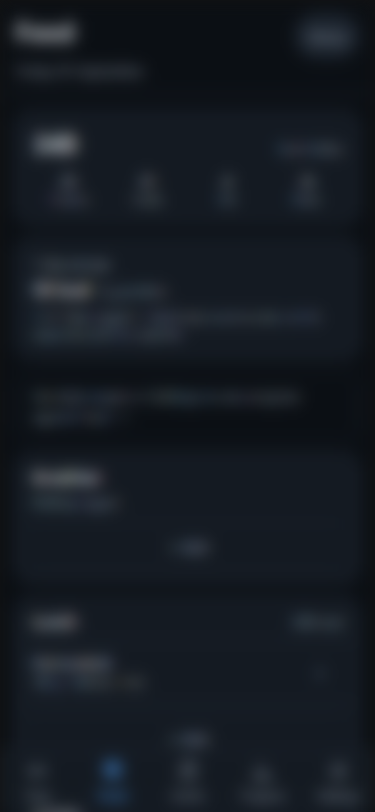
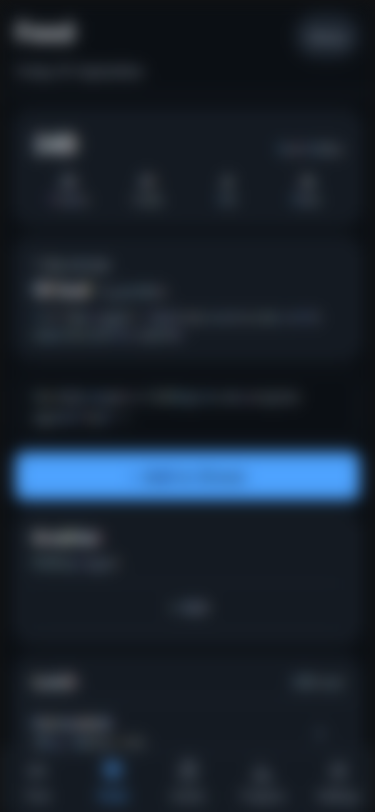
Put the food screen's one action above the fold
The filled Add followed the clock to whichever meal slot was current, which
meant that for dinner and snack - roughly half the day - it sat below the
fold and nothing prominent was in view. Flagged as a design question rather
than fixed unilaterally; the owner answered it.

One filled "+ Add to <meal>" now sits after the 7-day average and before the
meal sections. Only its LABEL follows the clock; the button does not move
down the page. Bottom measures 500px, which clears a 390x844 phone and a
375x667 one, so it is above the fold at every hour and on the shortest phone
worth supporting.

Placed below the average rather than above it because the brief gives the
daily total and the 7-day average equal billing and sits them together; a
button wedged between them would break the pair. That is as high as it goes
without doing so.

Tapping it opens that meal's form and scrolls to it, armed on that tap only
so a meal's own Add - already in view - does not yank the page. auto, not
smooth: nothing else here animates, and smooth does not run on a hidden page,
which makes it untestable. The button hides while a form is open, so there
are never two add surfaces. The four per-slot buttons went back to plain
borders, leaving exactly one filled action.

This edits two written criteria. Gate 3a now says "view" means the first
viewport at 390x844, and 3b adds "reachable without scrolling". Both are
STRICTER than before, in the direction the owner specified, so I did not ask
[…]

diff --git a/src/routes/Food.tsx b/src/routes/Food.tsx
@@ -1,4 +1,4 @@
-import { useState } from 'react'
+import { useLayoutEffect, useRef, useState } from 'react'
 import { useLiveQuery } from 'dexie-react-hooks'
 import { Link } from 'react-router-dom'
 import { Screen } from '../components/Screen'
@@ -58,6 +58,22 @@ export function Food() {
 
   const kcalTarget = profile?.kcal_target ?? null
   const proteinTarget = profile?.protein_g_target ?? null
+
+  /**
+   * Opening the form from the button at the top means the form itself is
+   * usually below the fold, and a button that opens something you cannot see
+   * is worse than no button. Armed on that tap only, so tapping a meal's own
+   * Add - already in view - does not yank the page.
+   *
+   * `auto`, not `smooth`: nothing else in this app animates, and a smooth
+   * scroll does not run at all on a hidden page, which makes it untestable.
+   */
+  const armed = useRef(false)
+  useLayoutEffect(() => {
+    if (!armed.current || !addingTo) return
+    armed.current = false
+    document.getElementById(`meal-${addingTo}`)?.scrollIntoView({ behavior: 'auto', block: 'start' })
+  }, [addingTo])
 
   return (
     <Screen
@@ -132,12 +148,40 @@ export function Food() {
           </Link>
         )}
 
+        {/* The screen's one filled action, and the only one.
+
+            It used to be the current meal's own Add button, which followed the
+            clock - and so fell below the fold for dinner and snack, roughly
+            half the day, leaving nothing prominent in view. Here it is above
+            the fold whatever the time.
+
+            Placed after the 7-day average rather than above it: the brief
+            gives the daily total and the average equal billing and sits them
+            together, so a button wedged between them would break the pair.
+            This is as high as it goes without doing that. */}
+        {addingTo === null && (
+          <button
+            onClick={() => {
+              armed.current = true
+              setAddingTo(nowSlot)
+            }}
+            className="min-h-12 w-full rounded-lg bg-accent font-semibold text-accent-text"
+          >
+            {/* capitalize on the button would title-case the "to" as well. */}
+            + Add to <span className="capitalize">{nowSlot}</span>
+          </button>
+        )}
+
         {/* Meals */}
         {MEAL_SLOTS.map((slot) => {
           const forSlot = (entries ?? []).filter((e) => e.meal_slot === slot)
           const slotTotal = totalLogged(forSlot)
           return (
-            <section key={slot} className="overflow-hidden rounded-2xl border border-border bg-surface">
+            <section
+              key={slot}
+              id={`meal-${slot}`}
+              className="scroll-mt-20 overflow-hidden rounded-2xl border border-border bg-surface"
+            >
               <header className="flex items-baseline justify-between px-4 pt-3">
                 <h2 className="font-semibold capitalize">{slot}</h2>
                 <span className="tabular text-sm text-text-dim">
@@ -184,12 +228,8 @@ export function Food() {
                 ) : (
                   <button
                     onClick={() => setAddingTo(slot)}
-                    className={
-                      slot === nowSlot
-                        ? 'min-h-12 w-full rounded-lg bg-accent text-sm font-semibold text-accent-text'
-                        : `min-h-12 w-full rounded-lg border border-dashed border-border
-                           text-sm font-medium text-text-dim`
-                    }
+                    className="min-h-12 w-full rounded-lg border border-dashed border-border
+                               text-sm font-medium text-text-dim"
                   >
                     + Add
                   </button>

diff --git a/QUALITY-GATES.md b/QUALITY-GATES.md
@@ -1,4 +1,4 @@
-# QUALITY-GATES.md — v5 · RE-VERIFIED AFTER v1.2
+# QUALITY-GATES.md — v6 · GATE 3 TIGHTENED TO THE FOLD
 
 > **QUALITY STATUS: PROVISIONAL.** Stage 1 (self-review) passed 2026-09-20 and was re-run in
 > full on **2026-09-25** after the history fix and the rest-timer removal. Awaiting Stage 2.
@@ -91,8 +91,8 @@ cell's centre mapped back with `elementFromPoint`. GREYSCALE: interactive elemen
 
 | # | Check | Threshold | Current | Status |
 |---|---|---|---|---|
-| 3a | One dominant element per view, and it is the intended focal point | 8 of 8 routes | **8 of 8** | **PASS** |
-| 3b | Hierarchy survives greyscale: the primary action is the most prominent interactive element | 8 of 8 | **8 of 8**, weights 850–7,589 | **PASS** |
+| 3a | One dominant element per view, and it is the intended focal point. **"View" means the first viewport at 390×844 — not the whole scrollable document** | 8 of 8 routes | **8 of 8** | **PASS** |
+| 3b | Hierarchy survives greyscale: the primary action is the most prominent interactive element, **and is reachable without scrolling** | 8 of 8 | **8 of 8**, weights 850–7,589 | **PASS** |
 | 3c | Screen title identifiable at 20% (the app-switcher case) | ≥ 5px | **5.2px** — the h1 step is 26px | **PASS** |
 
 **One cause, one fix.** The four failing routes had no filled control at all — every action
@@ -118,11 +118,19 @@ back at weight 37 because the one filled Add had moved to the dinner slot, 15px 
 the criterion asks. The first post-F8 measurement passed partly by luck: it ran just after
 midnight, when the filled slot was breakfast and therefore near the top.
 
-**A real finding underneath that, not a criterion failure.** On `/food` the single filled
-action follows the clock, so for dinner and snack — roughly half the day — it sits below the
-fold, and nothing above the fold is prominent. Gate 3 as written still passes, because it
-does not mention the fold. Whether that is good enough is a design question for the owner,
-not one to settle by quietly rewording the gate.
+**Resolved 2026-09-25, by the owner.** The question above — does "per view" mean the visible
+screen or the whole document? — was genuinely open, and the owner answered it: the add button
+belongs above the fold. 3a and 3b now say so explicitly, which makes them **stricter** than
+before, and `/food` was changed to meet them.
+
+The fix is one filled `+ Add to <meal>` placed after the 7-day average and before the meal
+sections. It does not follow the clock down the page; only its label does. Measured bottom at
+**500px**, which clears both a 390×844 phone and a 375×667 one. Tapping it opens that meal's
+form and scrolls to it — armed on that tap only, so a meal's own Add does not yank the page —
+and the button hides while a form is open, so there are never two add surfaces.
+
+The four per-slot Add buttons went back to plain borders, leaving exactly one filled action on
+the screen, which is what 3b wants.
 
 ## Gate 6 — Motion, **ADAPTED** · **PASS** (fixed by F1 and F2, 2026-09-20)
 
@@ -288,6 +296,21 @@ there to look pleasant.
    tag moved.
 
 ## Changelog
+
+**v6 — 2026-09-25 — Gate 3 tightened to the fold, and `/food` changed to meet it.** The
+ambiguity flagged in v5 is resolved the strict way at the owner's direction: "per view" means
+the first viewport, and the primary action must be reachable without scrolling. `/food` now
+carries one filled `+ Add to <meal>` at a fixed position, bottom at 500px, above the fold on
+both a 390×844 and a 375×667 phone.
+
+Worth stating plainly: this **edits two written criteria**. It makes them stricter, in the
+direction the owner just specified, so I did not ask for UNFREEZE. If that reading is wrong it
+is one revert.
+
+All five gates re-measured after the change and still pass: 6 type steps, no duplicate
+line-heights, 6.04:1 contrast with 0 failures, 8 of 8 routes, 0 controls under 44px, 0
+overflow, 0 orphans. Screenshots refreshed again.
+
 
 **v5 — 2026-09-25 — re-verified after v1.2.** Every gate re-run against the build that
 removed the rest timer and fixed the history line. All five still pass; `review/` screenshots
